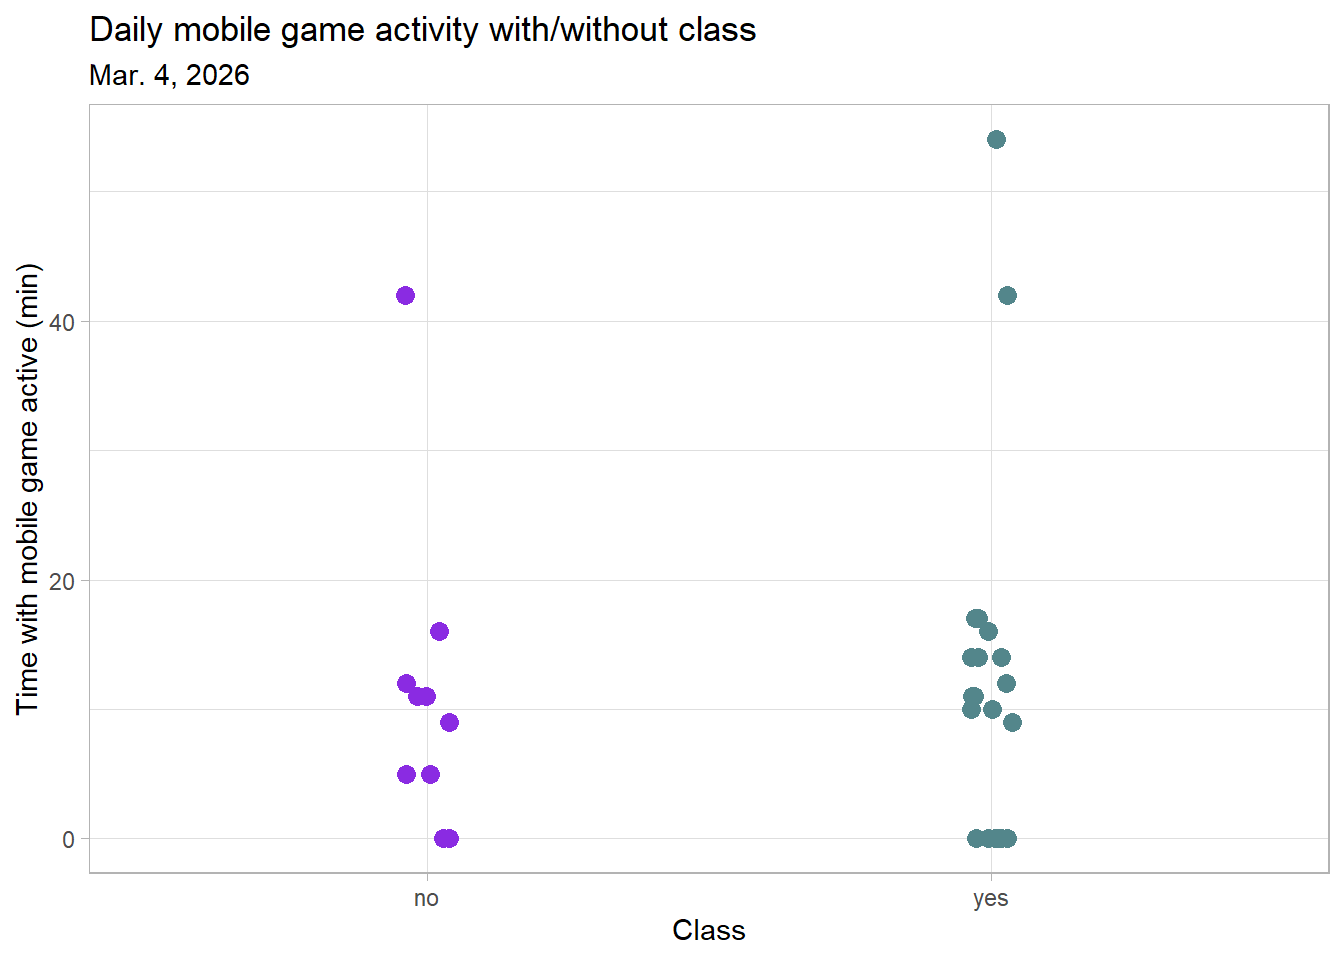
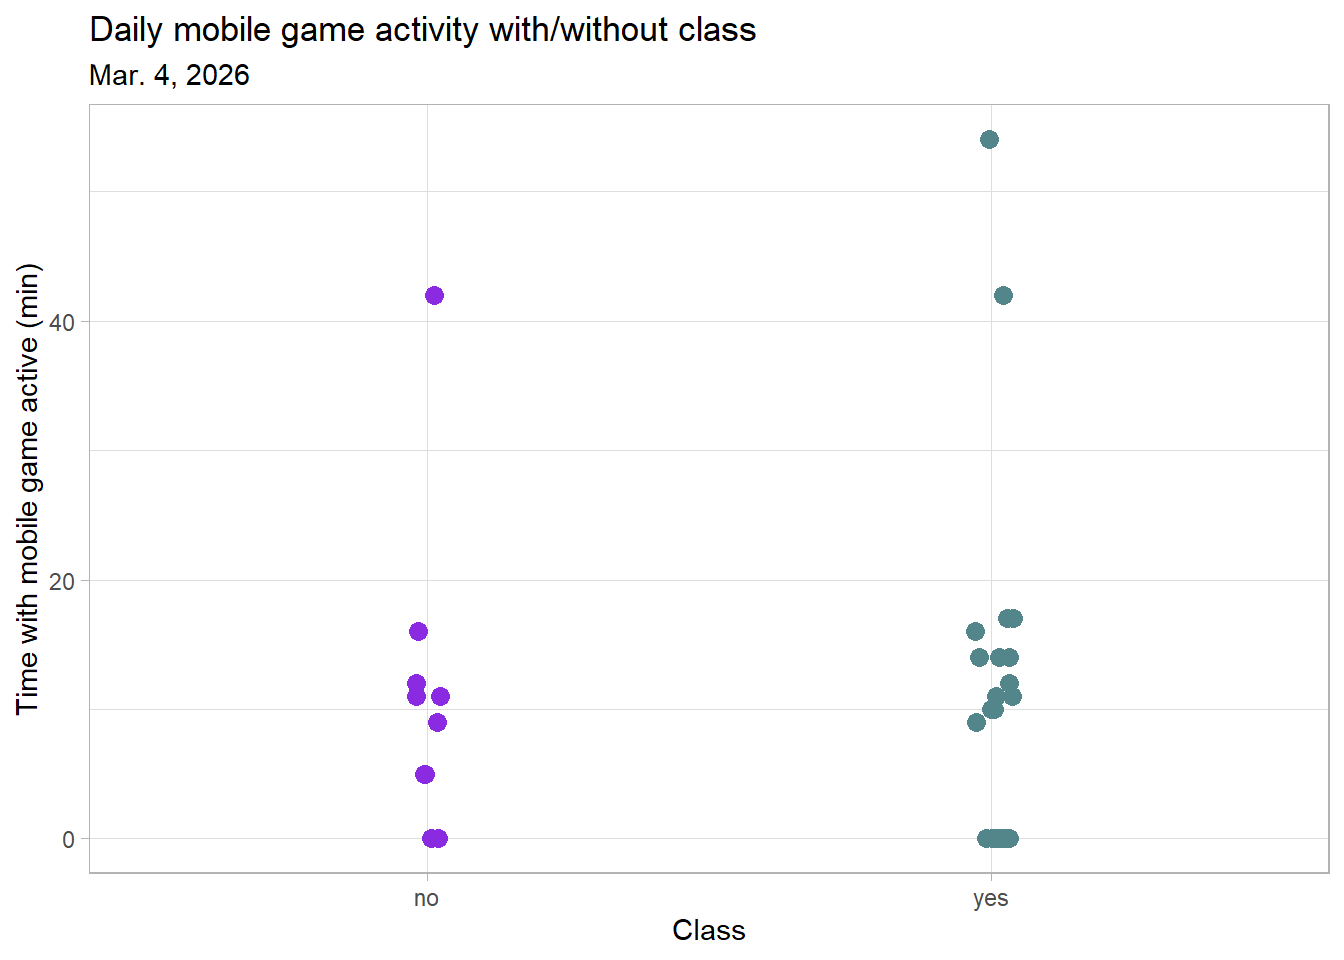
resubmission revision on 1d, and add floating table of contents

diff --git a/code/Quarto.html b/code/Quarto.html
@@ -105,10 +105,51 @@ window.Quarto = {
 
 </head>
 
-<body class="fullcontent quarto-light">
+<body class="quarto-light">
 
 <div id="quarto-content" class="page-columns page-rows-contents page-layout-article">
-
+<div id="quarto-margin-sidebar" class="sidebar margin-sidebar">
+  <nav id="TOC" role="doc-toc" class="toc-active">
+    <h2 id="toc-title">Table of contents</h2>
+   
+  <ul>
+  <li><a href="#setup" id="toc-setup" class="nav-link active" data-scroll-target="#setup">Setup</a></li>
+  <li><a href="#problem-1.-slough-soil-salinity" id="toc-problem-1.-slough-soil-salinity" class="nav-link" data-scroll-target="#problem-1.-slough-soil-salinity">Problem 1. Slough soil salinity</a>
+  <ul class="collapse">
+  <li><a href="#a." id="toc-a." class="nav-link" data-scroll-target="#a.">a.</a></li>
+  <li><a href="#b." id="toc-b." class="nav-link" data-scroll-target="#b.">b.</a></li>
+  <li><a href="#c." id="toc-c." class="nav-link" data-scroll-target="#c.">c.</a>
+  <ul class="collapse">
+  <li><a href="#check-assumptions" id="toc-check-assumptions" class="nav-link" data-scroll-target="#check-assumptions">Check assumptions</a></li>
+  <li><a href="#run-test" id="toc-run-test" class="nav-link" data-scroll-target="#run-test">Run test</a></li>
+  </ul></li>
+  <li><a href="#d." id="toc-d." class="nav-link" data-scroll-target="#d.">d.</a></li>
+  <li><a href="#e." id="toc-e." class="nav-link" data-scroll-target="#e.">e.</a></li>
+  <li><a href="#f." id="toc-f." class="nav-link" data-scroll-target="#f.">f.</a></li>
+  </ul></li>
+  <li><a href="#problem-2.-personal-data" id="toc-problem-2.-personal-data" class="nav-link" data-scroll-target="#problem-2.-personal-data">Problem 2. Personal data</a>
+  <ul class="collapse">
+  <li><a href="#a.-1" id="toc-a.-1" class="nav-link" data-scroll-target="#a.-1">a.</a></li>
+  <li><a href="#b.-1" id="toc-b.-1" class="nav-link" data-scroll-target="#b.-1">b.</a></li>
+  </ul></li>
+  <li><a href="#problem-3.-affective-visualization" id="toc-problem-3.-affective-visualization" class="nav-link" data-scroll-target="#problem-3.-affective-visualization">Problem 3. Affective Visualization</a>
+  <ul class="collapse">
+  <li><a href="#a.-2" id="toc-a.-2" class="nav-link" data-scroll-target="#a.-2">a.</a></li>
+  <li><a href="#b.-2" id="toc-b.-2" class="nav-link" data-scroll-target="#b.-2">b.</a></li>
+  <li><a href="#c.-1" id="toc-c.-1" class="nav-link" data-scroll-target="#c.-1">c.</a></li>
+  <li><a href="#d.-1" id="toc-d.-1" class="nav-link" data-scroll-target="#d.-1">d.</a></li>
+  <li><a href="#e.-1" id="toc-e.-1" class="nav-link" data-scroll-target="#e.-1">e.</a></li>
+  </ul></li>
+  <li><a href="#problem-4." id="toc-problem-4." class="nav-link" data-scroll-target="#problem-4.">Problem 4.</a>
+  <ul class="collapse">
+  <li><a href="#a.-3" id="toc-a.-3" class="nav-link" data-scroll-target="#a.-3">a.</a></li>
+  <li><a href="#b.-3" id="toc-b.-3" class="nav-link" data-scroll-target="#b.-3">b.</a></li>
+  <li><a href="#c.-2" id="toc-c.-2" class="nav-link" data-scroll-target="#c.-2">c.</a></li>
+  <li><a href="#d.-2" id="toc-d.-2" class="nav-link" data-scroll-target="#d.-2">d.</a></li>
+  </ul></li>
+  </ul>
+</nav>
+</div>
 <main class="content" id="quarto-document-content">
 
 <header id="title-block-header" class="quarto-title-block default">
@@ -226,7 +267,7 @@ sample estimates:
 </section>
 <section id="d." class="level2">
 <h2 class="anchored" data-anchor-id="d.">d.</h2>
-<p>To evaluate the strength of the relationship between pickleweed biomass and soil salinity, I used a Pearson rank correlation test. I chose this test because when we visualize the data, the distribution appears to have a relationship that may be non-linear (monotonic). I also chose it because of the small amount of observations in the data set resulting in a small sample size, which would make a non-parametric test more appropriate.</p>
+<p>To evaluate the strength of the relationship between pickleweed biomass and soil salinity, I used a Speaman rank correlation test. I chose this test because when we visualize the data, the distribution shows a consistent change between the two variables in the positive direction, a monotonic relationship as explained in 1c. I also chose it because of the small amount of observations in the data set resulting in a small sample size, which would make a non-parametric test more appropriate.</p>
 <p>We found a moderate relationship between pickleweed biomass and salinity (Spearman <span class="math inline">\(\rho\)</span> = 0.59, S = 824, p = 0.003, <span class="math inline">\(\alpha\)</span> = 0.05).</p>
 </section>
 <section id="e." class="level2">
